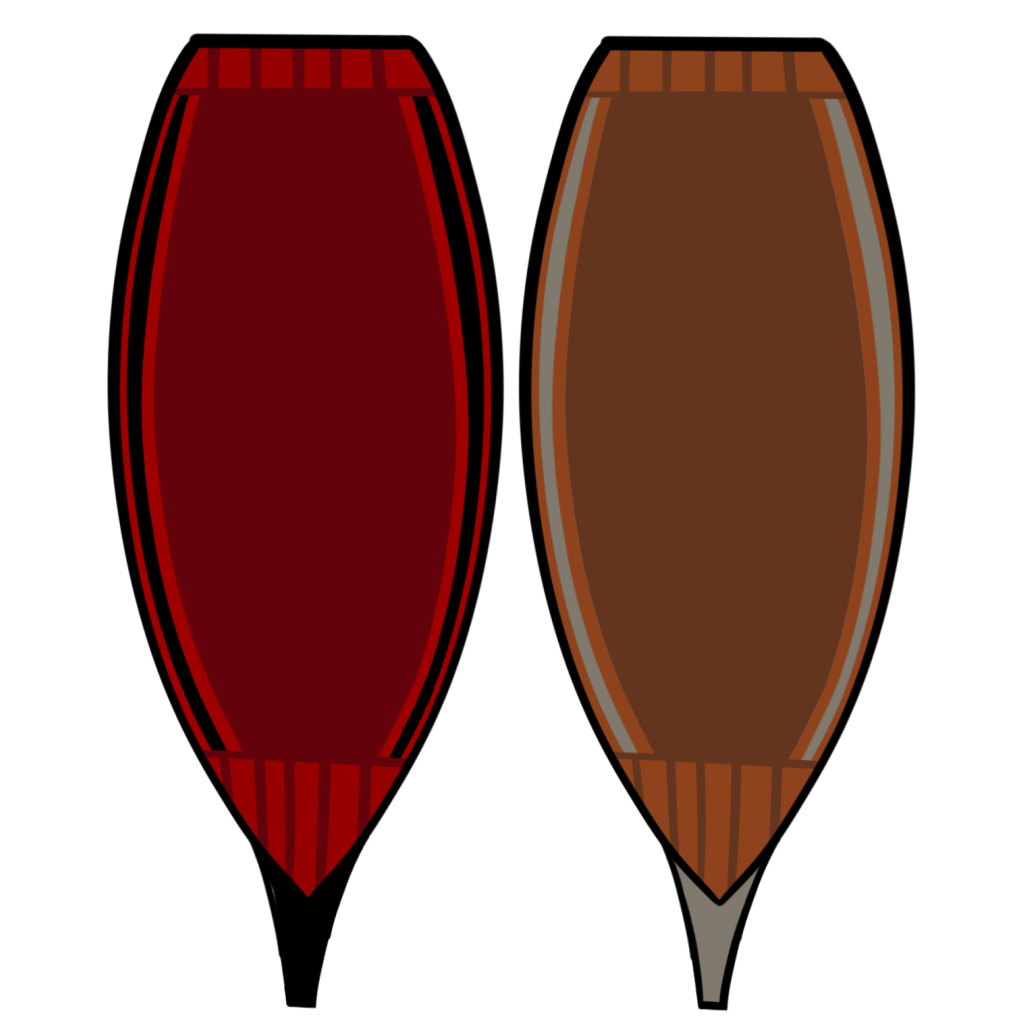
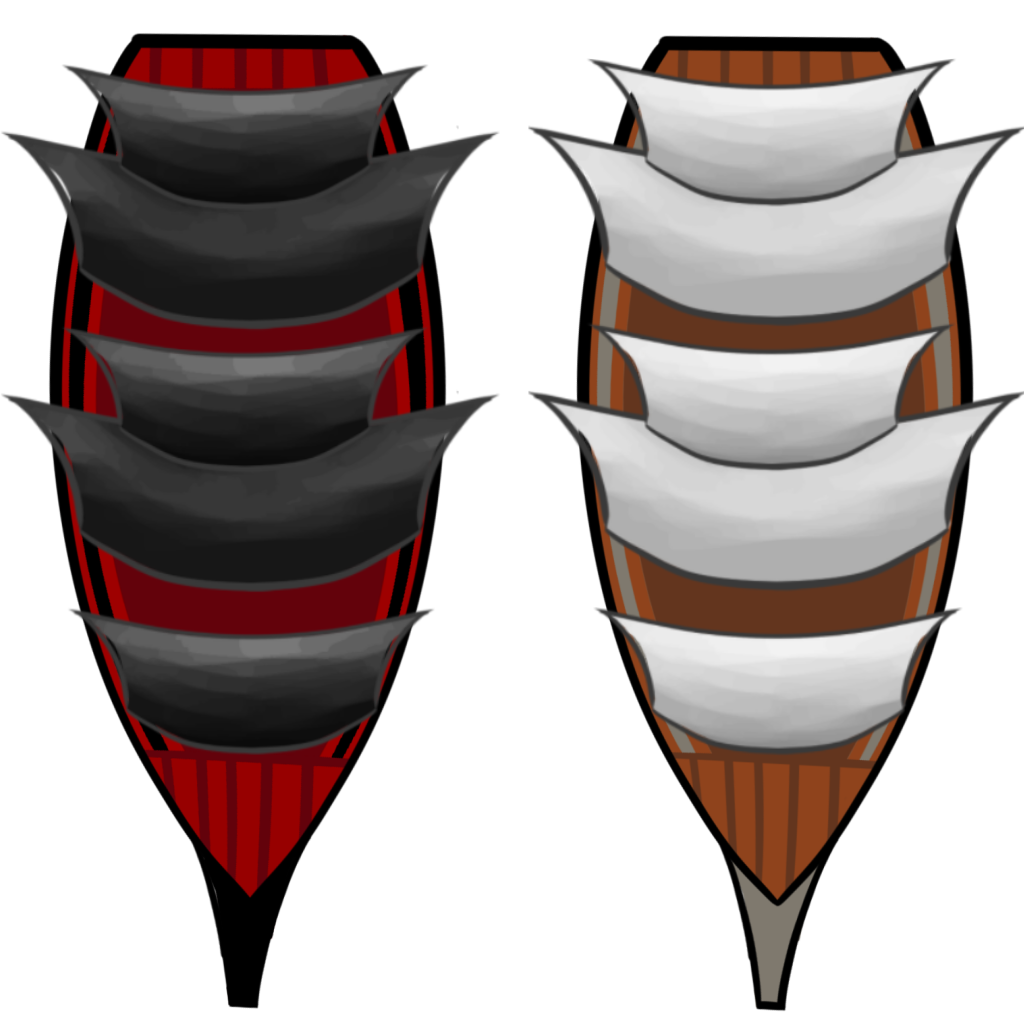
Added sails and changed sizes

diff --git a/TeamTeapot_FinalGame/public_html/src/MyGame/Objects/Ships/PlayerShip.js b/TeamTeapot_FinalGame/public_html/src/MyGame/Objects/Ships/PlayerShip.js
@@ -20,7 +20,7 @@ function PlayerShip(spriteTexture, miniMapTexture, collisionTexture, wakeTexture
     
     this.mHitTimer = 0;                                 // Timer that tracks how much longer the player remains invincible after getting hit
     this.mHitCheckTimer = 0;                            // Timer that tracks when to check for rock collision again
-    Ship.call(this, spriteTexture,collisionTexture, wakeTexture, [0, 0], [5, 12], 100, 0, -25, 25, 0.02);
+    Ship.call(this, spriteTexture,collisionTexture, wakeTexture, [0, 0], [5, 10], 100, 0, -25, 25, 0.02);
 
     console.log(this);
     
@@ -28,7 +28,7 @@ function PlayerShip(spriteTexture, miniMapTexture, collisionTexture, wakeTexture
     this.mShip.setColor(this.mOriginalColor);
     this.mShip.getXform().setRotationInRad(Math.PI);
 
-    this.mShip.setElementPixelPositions(106, 512, 0, 1024);
+    this.mShip.setElementPixelPositions(510, 1024, 0, 1024);
     this.mCollisionTex.setElementPixelPositions(64, 115, 0, 128);
     
     this.mTreasureCollected = 0;

diff --git a/TeamTeapot_FinalGame/public_html/src/MyGame/Objects/Ships/PirateShip.js b/TeamTeapot_FinalGame/public_html/src/MyGame/Objects/Ships/PirateShip.js
@@ -20,7 +20,7 @@ function PirateShip(spriteTexture, miniMapTex, collisionTexture, wakeTexture, ca
     
     this.kSpeedDelta = 0.05;
     
-    Ship.call(this, spriteTexture, collisionTexture, wakeTexture, [50, 0], [5, 12], 10, 0, -15, 15, .02);
+    Ship.call(this, spriteTexture, collisionTexture, wakeTexture, [50, 0], [5, 10], 10, 0, -15, 15, .02);
     
     this.mCannonballTex = cannonballTexture;
     this.mCannonballSet = new ProjectileSet();
@@ -33,7 +33,7 @@ function PirateShip(spriteTexture, miniMapTex, collisionTexture, wakeTexture, ca
     this.mOriginalColor = [1, 1, 1, 0];
     this.mShip.setColor(this.mOriginalColor);
     
-    this.mShip.setElementPixelPositions(518, 916, 0, 1024);
+    this.mShip.setElementPixelPositions(0, 510, 0, 1024);
     this.mCollisionTex.setElementPixelPositions(13, 64, 0, 128);
     this.kInvincibleTime = 60;
     this.mHitColor = [1.0, 0, 0, 1];
